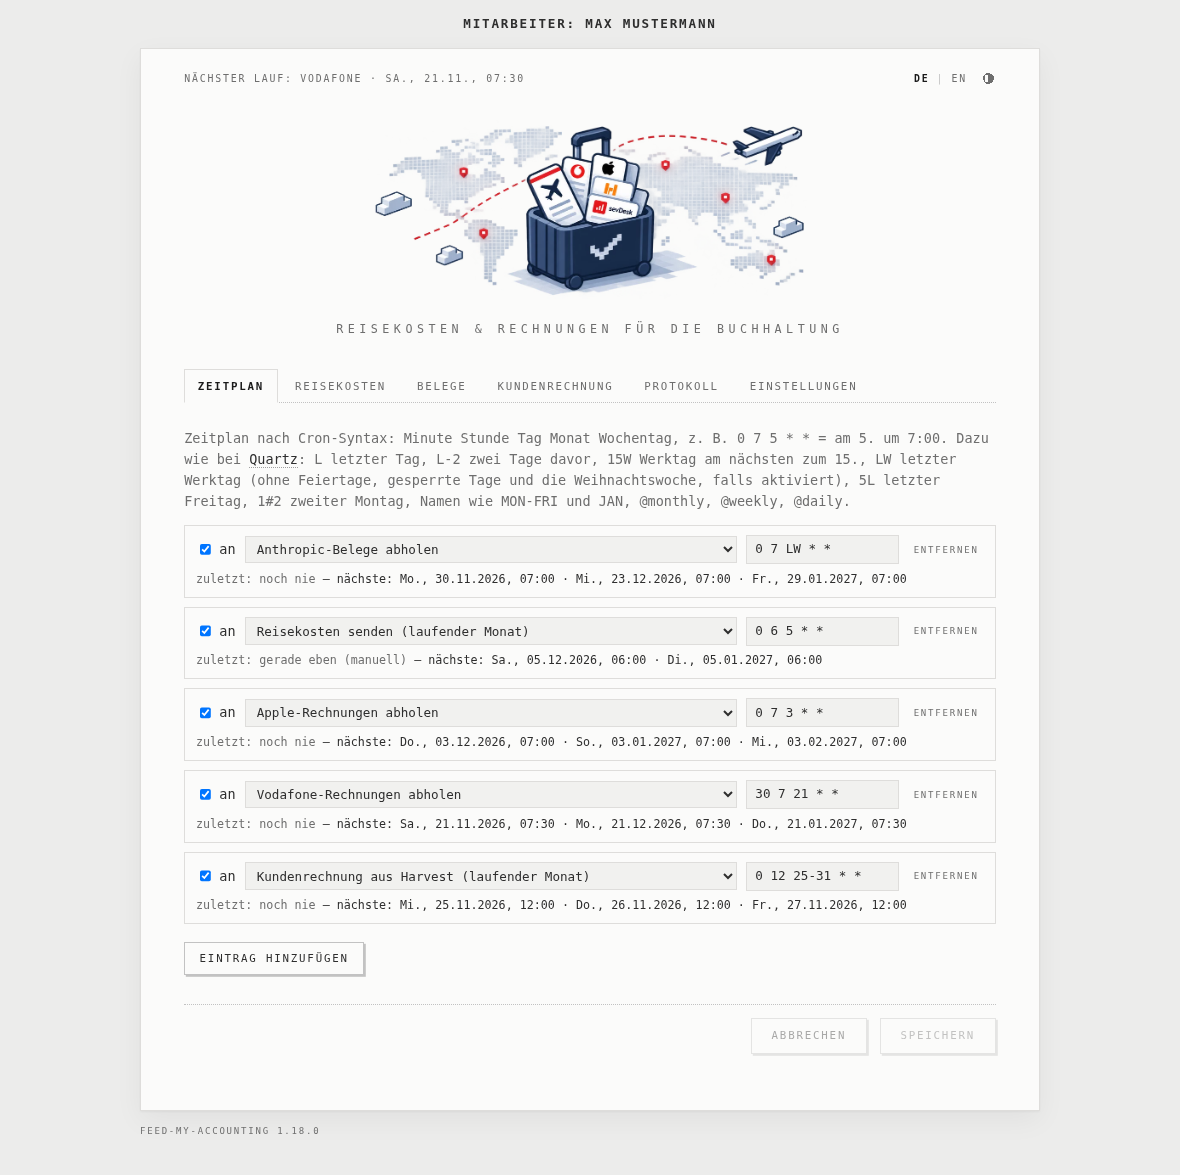
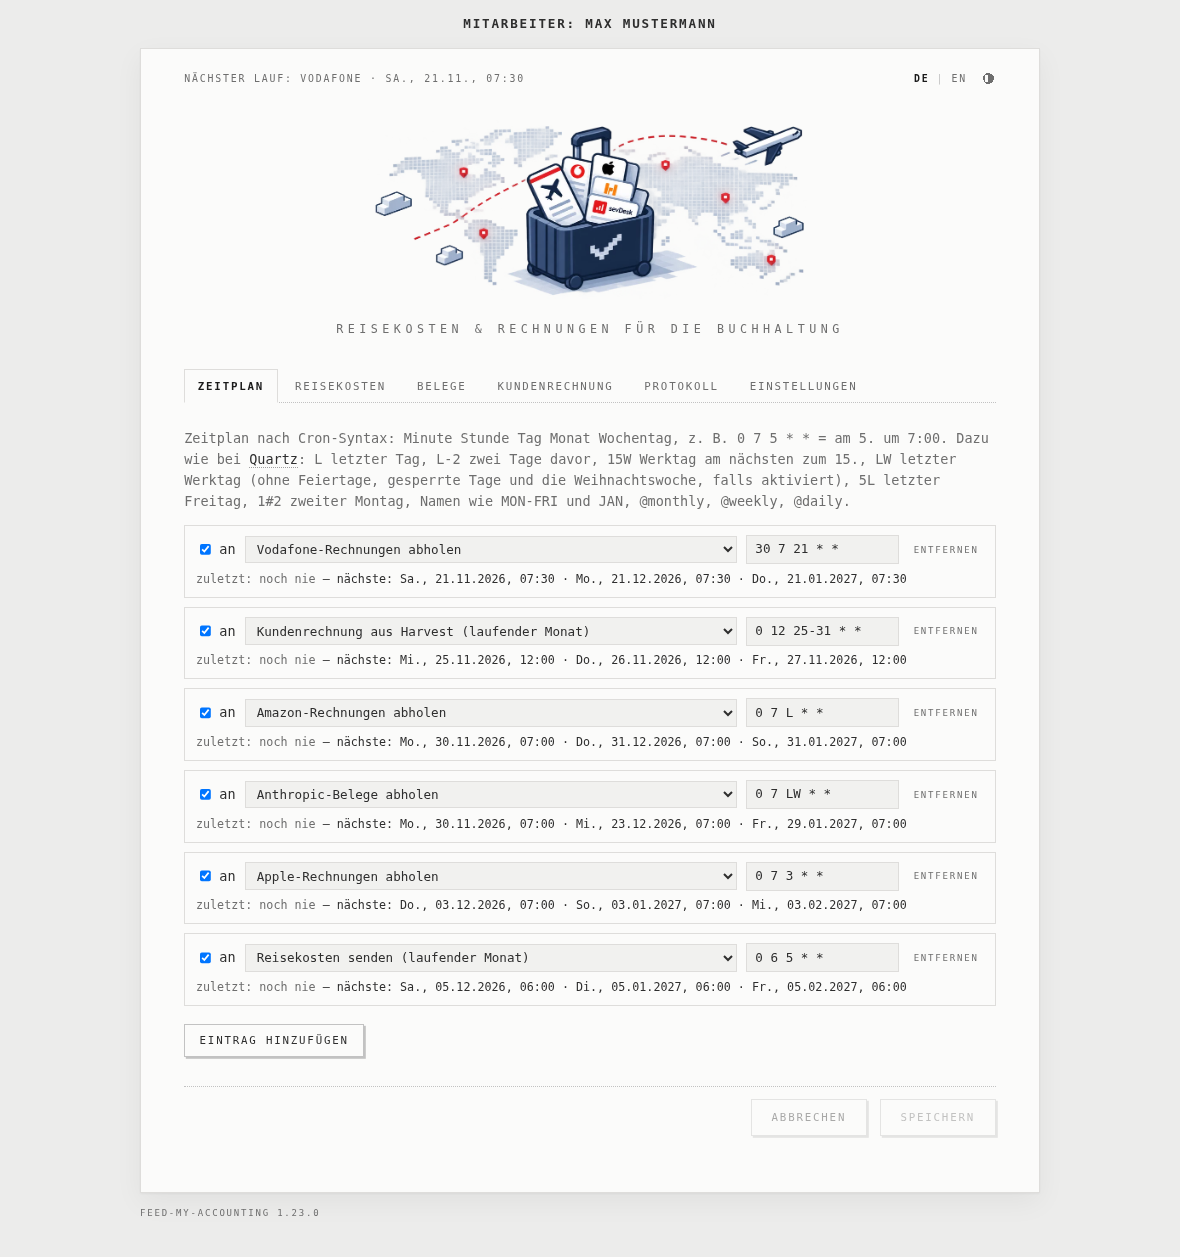
Questions in the page's own look; Zeitplan in the order it runs
The browser's confirm and alert give way to a dialog of the page's own,
in the live view's frame, the answer on its button: Senden, Anlegen,
Lauf abbrechen or Weiter warten. The Zeitplan's entries come in the order
they run next as the page loads them. Its screenshot anew.

Claude-Session: https://claude.ai/code/session_01QaAjf99LPfJxqVnWJb8cvm

diff --git a/web/app.js b/web/app.js
@@ -47,6 +47,34 @@ async function api(method, path, body) {
   return data;
 }
 
+// ── The page's own question and notice, in its look rather than the browser's ──
+
+/** Asks text, the answer yes or no: resolves true on yes, false on no or Escape. */
+function ask(text, { yes = T('OK', 'OK'), no = T('Abbrechen', 'Cancel') } = {}) {
+  const dialog = $('ask');
+  $('ask-text').textContent = text;
+  $('ask-yes').textContent = yes;
+  $('ask-no').textContent = no ?? '';
+  $('ask-no').hidden = no === null;
+  return new Promise((resolve) => {
+    const done = (answer) => {
+      dialog.removeEventListener('cancel', escape);
+      $('ask-yes').onclick = $('ask-no').onclick = null;
+      dialog.close();
+      resolve(answer);
+    };
+    const escape = (e) => { e.preventDefault(); done(false); };
+    dialog.addEventListener('cancel', escape);
+    $('ask-yes').onclick = () => done(true);
+    $('ask-no').onclick = () => done(false);
+    dialog.showModal();
+    $('ask-yes').focus();
+  });
+}
+
+/** Tells text, with OK only. */
+const tell = (text) => ask(text, { no: null });
+
 // Abmelden, once logged in: the session ends here, the login comes again.
 (async () => {
   const session = await api('GET', '/api/session').catch(() => null);
@@ -243,6 +271,10 @@ async function loadCron() {
   if (schedule && scheduleJSON() !== schedule.saved) return; // changes not saved yet: kept
   try {
     schedule = await api('GET', '/api/schedule');
+    // By when each runs next, as loaded — one added stays where it is put until then. None
+    // coming last.
+    const next = (e) => (e.next?.length ? Date.parse(e.next[0]) : Infinity);
+    schedule.entries.sort((a, b) => next(a) - next(b) || a.job.localeCompare(b.job));
     schedule.saved = scheduleJSON();
   } catch (err) {
     $('schedule').replaceChildren(el('p', 'badge failed', err.message));
@@ -456,9 +488,9 @@ for (const b of document.querySelectorAll('[data-live-key]')) {
 $('live-fill').addEventListener('click', () => { liveSend('/api/live/fill'); $('live-keys').focus({ preventScroll: true }); });
 $('live-cancel').addEventListener('click', () => liveSend('/api/live/cancel'));
 // Escape would close the dialog with the run still waiting: cancel it instead, asked.
-$('live').addEventListener('cancel', (e) => {
+$('live').addEventListener('cancel', async (e) => {
   e.preventDefault();
-  if (confirm(T('Lauf abbrechen?', 'Cancel the run?'))) liveSend('/api/live/cancel');
+  if (await ask(T('Lauf abbrechen?', 'Cancel the run?'), { yes: T('Lauf abbrechen', 'Cancel the run'), no: T('Weiter warten', 'Keep waiting') })) liveSend('/api/live/cancel');
 });
 
 // ── Consoles: a job's live output where it was started ─────────────────────
@@ -528,10 +560,10 @@ async function start(name, method, path, body, onDone) {
     follow(name, job, onDone);
   } catch (err) {
     // Held back by the login gate: run anyway only if asked and said yes.
-    if (err.data?.gated && body && confirm(`${err.message}\n\n${T('Trotzdem anmelden?', 'Log in anyway?')}`)) {
+    if (err.data?.gated && body && await ask(`${err.message}\n\n${T('Trotzdem anmelden?', 'Log in anyway?')}`, { yes: T('Trotzdem anmelden', 'Log in anyway') })) {
       return start(name, method, path, { ...body, force: true }, onDone);
     }
-    alert(err.message);
+    tell(err.message);
   }
 }
 
@@ -554,9 +586,9 @@ for (const b of document.querySelectorAll('[data-view]')) {
   b.addEventListener('click', () => start(b.dataset.view, 'POST', `/api/${b.dataset.view}/view`, { month: monthOf(b.dataset.view) }));
 }
 for (const b of document.querySelectorAll('[data-send]')) {
-  b.addEventListener('click', () => {
+  b.addEventListener('click', async () => {
     const kind = b.dataset.send;
-    if (!confirm(T(`${NAMES[kind]} ${monthOf(kind)} senden an ${mailTo()}?`, `Send ${NAMES[kind]} ${monthOf(kind)} to ${mailTo()}?`))) return;
+    if (!(await ask(T(`${NAMES[kind]} ${monthOf(kind)} senden an ${mailTo()}?`, `Send ${NAMES[kind]} ${monthOf(kind)} to ${mailTo()}?`), { yes: T('Senden', 'Send') }))) return;
     start(kind, 'POST', `/api/${kind}/send`, { month: monthOf(kind) });
   });
 }
@@ -964,10 +996,10 @@ window.addEventListener('beforeunload', (e) => {
 
 $('travel-generate').addEventListener('click', () =>
   start('travel', 'POST', '/api/travel/generate', { month: monthKey() }));
-$('travel-send').addEventListener('click', () => {
+$('travel-send').addEventListener('click', async () => {
   const t = plan?.totals ?? {};
-  if (!confirm(T(`Reisekosten ${MONTHS[month.getMonth()]} ${month.getFullYear()} senden an ${mailTo()}?\n${t.days ?? 0} Reisetage, ${euro(totalOf(t))}`,
-    `Send the travel expenses of ${MONTHS[month.getMonth()]} ${month.getFullYear()} to ${mailTo()}?\n${t.days ?? 0} travel days, ${euro(totalOf(t))}`))) return;
+  if (!(await ask(T(`Reisekosten ${MONTHS[month.getMonth()]} ${month.getFullYear()} senden an ${mailTo()}?\n${t.days ?? 0} Reisetage, ${euro(totalOf(t))}`,
+    `Send the travel expenses of ${MONTHS[month.getMonth()]} ${month.getFullYear()} to ${mailTo()}?\n${t.days ?? 0} travel days, ${euro(totalOf(t))}`), { yes: T('Senden', 'Send') }))) return;
   start('travel', 'POST', '/api/travel/send', { month: monthKey() });
 });
 
@@ -1010,22 +1042,22 @@ async function sendReport(file) {
   $('drop-text').textContent = T(`${file.name}: ${hoursText(read.hours)} Stunden gelesen — bitte prüfen`, `${file.name}: ${hoursText(read.hours)} hours read — please check`);
 }
 
-$('draft-form').addEventListener('submit', (e) => {
+$('draft-form').addEventListener('submit', async (e) => {
   e.preventDefault();
   const hours = Number($('d-hours').value);
   const from = $('d-from').value;
   const to = $('d-to').value;
   if (to < from) {
-    alert(T('„Leistung bis“ liegt vor „Leistung von“.', '“Service to” is before “Service from”.'));
+    tell(T('„Leistung bis“ liegt vor „Leistung von“.', '“Service to” is before “Service from”.'));
     return;
   }
   const client = draftClient();
   if (!client) {
-    alert(T('Kein Kunde: „Kunde in sevDesk“ unter „Einstellungen Kundenrechnung“ eintragen und speichern.', 'No client: enter “Client in sevDesk” under “Invoice settings” and save.'));
+    tell(T('Kein Kunde: „Kunde in sevDesk“ unter „Einstellungen Kundenrechnung“ eintragen und speichern.', 'No client: enter “Client in sevDesk” under “Invoice settings” and save.'));
     return;
   }
-  if (!confirm(T(`Rechnungsentwurf in sevDesk anlegen?\n${client}: ${dmy(from)} – ${dmy(to)}, ${hoursText(hours)} Stunden`,
-    `Create the invoice draft in sevDesk?\n${client}: ${dmy(from)} – ${dmy(to)}, ${hoursText(hours)} hours`))) return;
+  if (!(await ask(T(`Rechnungsentwurf in sevDesk anlegen?\n${client}: ${dmy(from)} – ${dmy(to)}, ${hoursText(hours)} Stunden`,
+    `Create the invoice draft in sevDesk?\n${client}: ${dmy(from)} – ${dmy(to)}, ${hoursText(hours)} hours`), { yes: T('Anlegen', 'Create') }))) return;
   start('invoice', 'POST', '/api/harvest/draft', { from, to, hours });
 });
 
@@ -1083,7 +1115,7 @@ $('clear-log').addEventListener('click', async () => {
   try {
     await api('DELETE', '/api/jobs');
   } catch (err) {
-    alert(err.message);
+    tell(err.message);
     return;
   }
   openJob = null;
@@ -1461,11 +1493,11 @@ function renderLogo() {
   const take = (file) => {
     if (!file) return;
     if (!['image/png', 'image/jpeg'].includes(file.type)) {
-      alert(T('Das Logo muss ein PNG oder JPEG sein.', 'The logo must be a PNG or JPEG.'));
+      tell(T('Das Logo muss ein PNG oder JPEG sein.', 'The logo must be a PNG or JPEG.'));
       return;
     }
     if (file.size > 2 << 20) {
-      alert(T('Das Logo ist größer als 2 MB.', 'The logo is larger than 2 MB.'));
+      tell(T('Das Logo ist größer als 2 MB.', 'The logo is larger than 2 MB.'));
       return;
     }
     logoDraft = file;

diff --git a/web/style.css b/web/style.css
@@ -434,6 +434,14 @@ dialog.live {
   box-shadow: 4px 4px 0 var(--rule);
 }
 dialog.live::backdrop { background: rgb(0 0 0 / 0.45); }
+/* The page's own question or notice: the live view's frame, as narrow as a message wants. */
+dialog.ask {
+  width: min(460px, calc(100vw - 32px));
+  background: var(--panel); color: var(--ink); border: 1px solid var(--panel-edge); padding: 20px;
+  box-shadow: 4px 4px 0 var(--rule);
+}
+dialog.ask::backdrop { background: rgb(0 0 0 / 0.45); }
+.ask-text { margin: 0 0 6px; white-space: pre-line; line-height: 1.5; }
 .live-reason { font-weight: 600; color: var(--headline); margin: 0 0 8px; font-size: 0.9em; }
 /* The page as large as the window has room for with the line above and the row beneath it:
    nothing to scroll to reach the buttons. */

diff --git a/web/index.html b/web/index.html
@@ -214,6 +214,15 @@
 
   <!-- A run hands a page over for a moment — Vodafone's login with a captcha: the page as it is,
        clicks and typing passed on; the run goes on by itself once it is through. -->
+  <!-- The page's own question or notice, in its look rather than the browser's: ask() and tell(). -->
+  <dialog id="ask" class="ask">
+    <p id="ask-text" class="ask-text"></p>
+    <div class="live-row end">
+      <button type="button" id="ask-no"></button>
+      <button type="button" id="ask-yes" class="strong"></button>
+    </div>
+  </dialog>
+
   <dialog id="live" class="live">
     <p id="live-reason" class="live-reason"></p>
     <!-- The page itself: a click on it clicks there, and the keyboard types into it — through an

diff --git a/README.md b/README.md
@@ -106,7 +106,7 @@ feed-my-accounting serve          # http://<host>:8595
 </p>
 
 <p align="center">
-  <img src="docs/cron.png" alt="The Zeitplan card: five jobs with their cron expressions and next runs, Anthropic on the last workday, LW" width="380">
+  <img src="docs/cron.png" alt="The Zeitplan card: six jobs in the order they run next, each with its cron expression and next runs — Amazon on the last day, L, Anthropic on the last workday, LW" width="380">
   <img src="docs/log.png" alt="The Protokoll card: a run's live output and the three PDFs it made" width="380">
 </p>
 
